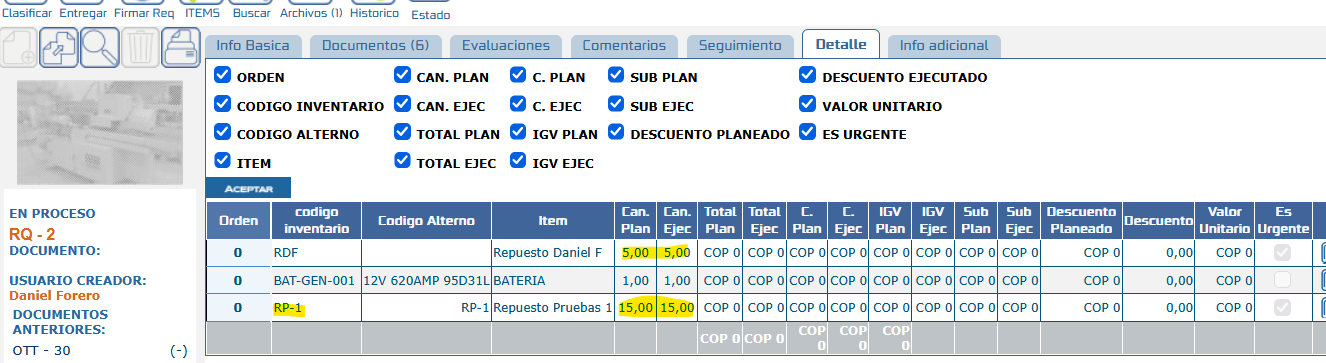
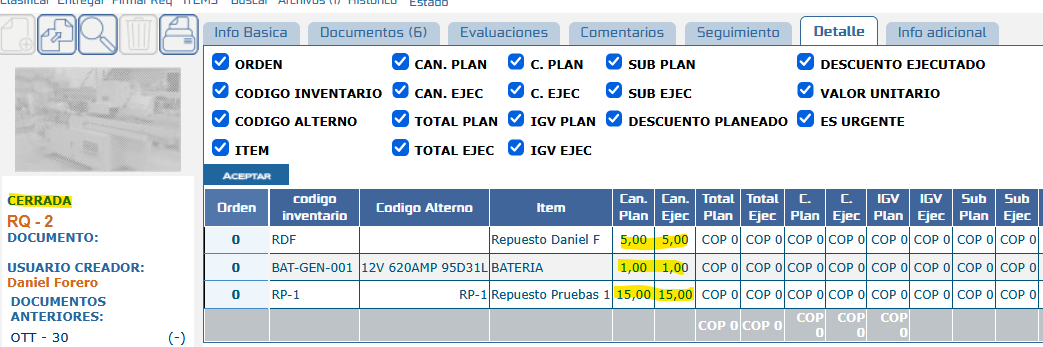
Actualizar versión de lanzamiento a v7.1.22.2 en la documentación de reemplazos

diff --git a/docs/sammnew/replacements.md b/docs/sammnew/replacements.md
@@ -18,7 +18,7 @@ Los reemplazos y supercedidos se configuran en el tab **Reemplazos** del repuest
 
 ### Versión de Lanzamiento
 
-:::info **v7.1.22.1**
+:::info **v7.1.22.2**
 :::
 
 ### Versiones Requeridas
@@ -26,7 +26,7 @@ Los reemplazos y supercedidos se configuran en el tab **Reemplazos** del repuest
 | Aplicación    | Versión Mínima | Descripción       |
 | ------------- | -------------- | ----------------- |
 | SAMMAPI       | >= 1.2.34.5    | API principal     |
-| SAMMNEW       | >= 7.1.22.1    | Aplicación web    |
+| SAMMNEW       | >= 7.1.22.2    | Aplicación web    |
 | SAMM LOGICA   | >= 5.6.28.0    | Lógica de negocio |
 | SAMM CORE     | >= 2.0.29.1    | Core del sistema  |
 | CAPADATOS     | >= 2.1.21.1    | Capa de datos     |
